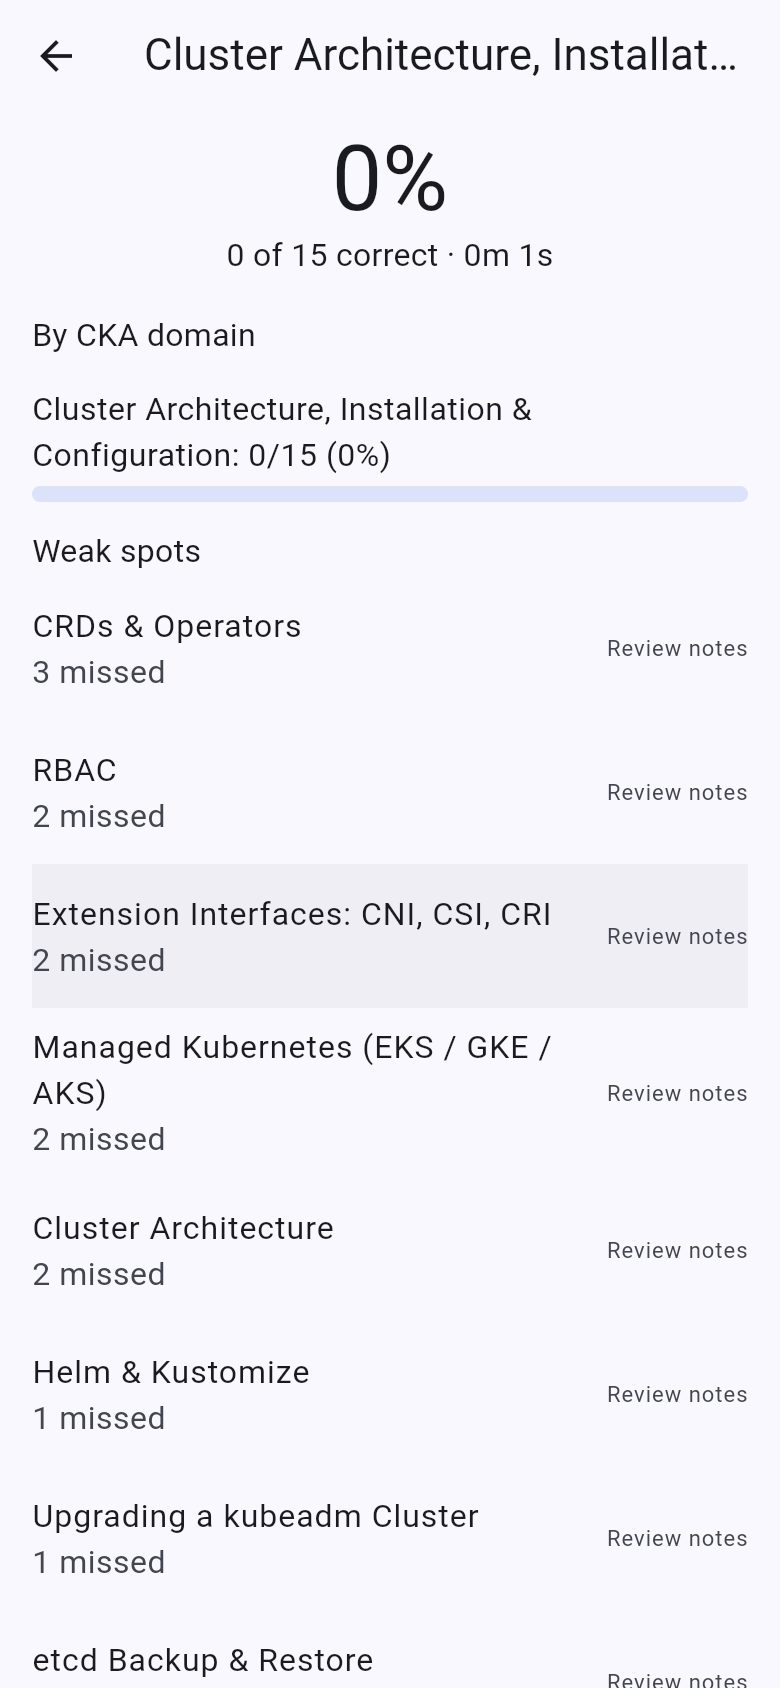
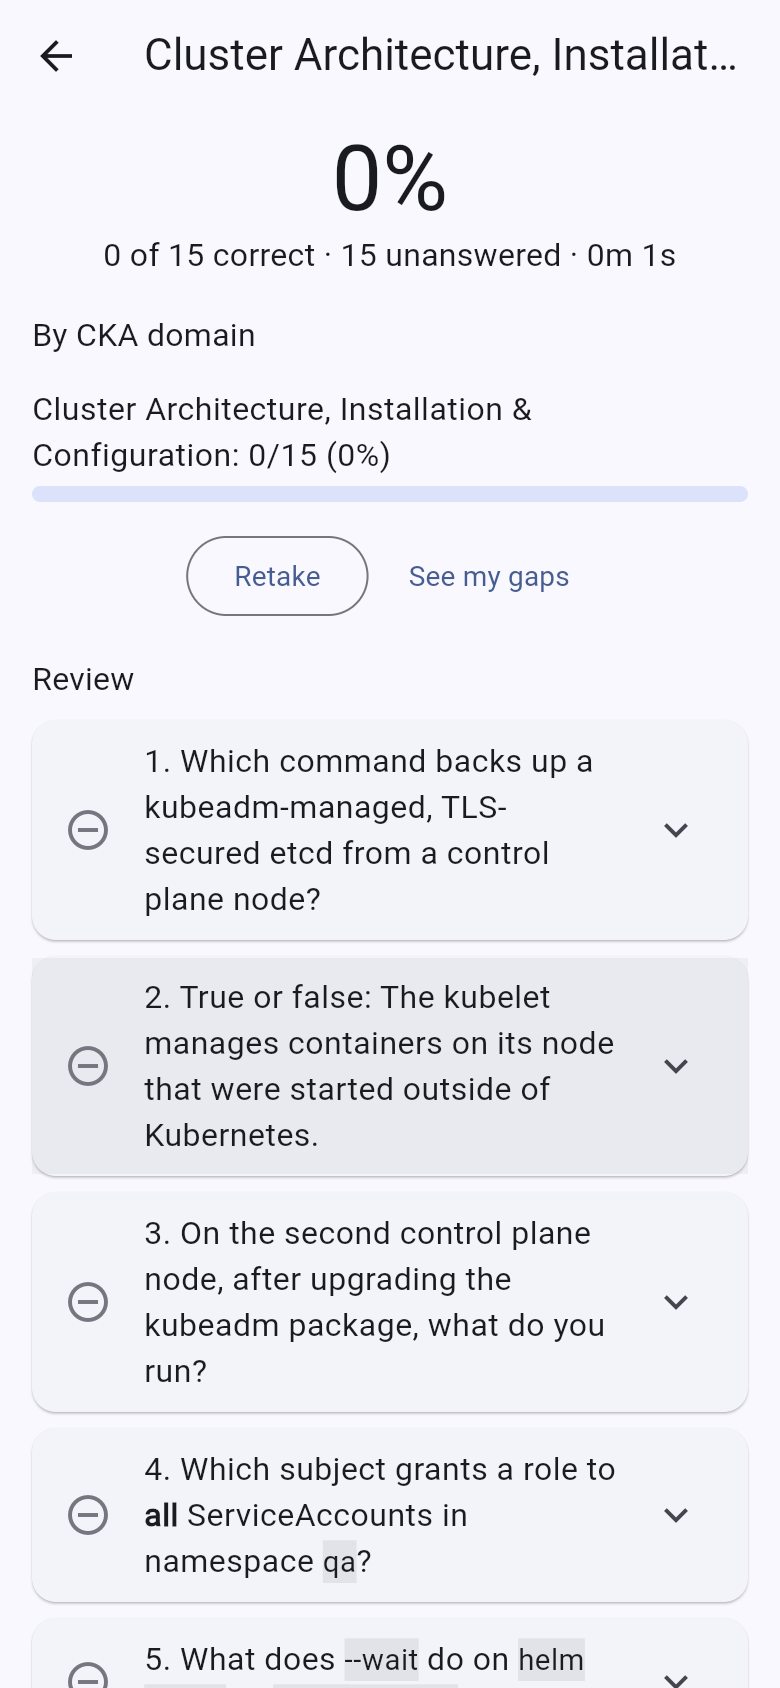
Don't count skipped practice questions as gaps; clearer labels
- Practice test: unanswered questions still score as wrong, but are no
  longer recorded as wrong answers, so finishing early doesn't inflate
  gaps or the missed-questions pool. Results show the unanswered count,
  weak spots count only wrong answers, review marks skipped items.
- Progress: domain weight reads "30% of CKA" instead of a bare
  percentage that looked like progress.
- Flashcards: keyboard hints (Space, 1, 2) only on wide screens.

Claude-Session: https://claude.ai/code/session_0162YmyZA1n4PFA3AmPFRJNc

diff --git a/lib/screens/practice_result_screen.dart b/lib/screens/practice_result_screen.dart
@@ -30,10 +30,12 @@ class PracticeResultScreen extends StatelessWidget {
     final minutes = result.duration.inMinutes;
     final seconds = result.duration.inSeconds % 60;
 
-    // Topics with at least one miss, worst first.
+    // Topics with at least one wrong answer, worst first. Skipped questions
+    // aren't evidence of a weak spot.
+    final unanswered = attempt.unansweredCount;
     final missesByTopic = <String, int>{};
     for (final p in attempt.questions) {
-      if (!attempt.correct(p)) {
+      if (attempt.isAnswered(p.question.id) && !attempt.correct(p)) {
         missesByTopic[p.question.topicId] =
             (missesByTopic[p.question.topicId] ?? 0) + 1;
       }
@@ -56,6 +58,7 @@ class PracticeResultScreen extends StatelessWidget {
           ),
           Text(
             '${attempt.correctCount} of ${attempt.questions.length} correct · '
+            '${unanswered > 0 ? '$unanswered unanswered · ' : ''}'
             '${minutes}m ${seconds}s',
             style: textTheme.titleMedium,
             textAlign: TextAlign.center,
@@ -102,7 +105,7 @@ class PracticeResultScreen extends StatelessWidget {
               ListTile(
                 contentPadding: EdgeInsets.zero,
                 title: Text(content.topic(e.key)?.title ?? e.key),
-                subtitle: Text('${e.value} missed'),
+                subtitle: Text('${e.value} wrong'),
                 trailing: const Text('Review notes'),
                 onTap: () => context.go('/topic/${e.key}/notes'),
               ),
@@ -113,7 +116,7 @@ class PracticeResultScreen extends StatelessWidget {
             runSpacing: 8,
             alignment: WrapAlignment.center,
             children: [
-              if (attempt.missedIds.isNotEmpty)
+              if (weak.isNotEmpty)
                 FilledButton.icon(
                   key: const ValueKey('review-missed-after-test'),
                   onPressed: () => context.go('/progress/review?kind=missed'),

diff --git a/lib/screens/flashcards_screen.dart b/lib/screens/flashcards_screen.dart
@@ -194,6 +194,7 @@ class _CardView extends StatelessWidget {
     final card = session.current;
     final scheme = Theme.of(context).colorScheme;
     final textTheme = Theme.of(context).textTheme;
+    final keys = MediaQuery.sizeOf(context).width >= 600;
     return Column(
       crossAxisAlignment: CrossAxisAlignment.stretch,
       children: [
@@ -252,11 +253,12 @@ class _CardView extends StatelessWidget {
           ),
         ),
         const SizedBox(height: 12),
+        // Keyboard hints only where a keyboard is likely (as in quizzes).
         if (!flipped)
           FilledButton(
             key: const ValueKey('flip'),
             onPressed: onFlip,
-            child: const Text('Show answer (Space)'),
+            child: Text(keys ? 'Show answer (Space)' : 'Show answer'),
           )
         else
           Row(
@@ -265,7 +267,7 @@ class _CardView extends StatelessWidget {
                 child: OutlinedButton(
                   key: const ValueKey('again'),
                   onPressed: () => onAnswer(false),
-                  child: const Text('Again (1)'),
+                  child: Text(keys ? 'Again (1)' : 'Again'),
                 ),
               ),
               const SizedBox(width: 12),
@@ -273,7 +275,7 @@ class _CardView extends StatelessWidget {
                 child: FilledButton(
                   key: const ValueKey('got-it'),
                   onPressed: () => onAnswer(true),
-                  child: const Text('Got it (2)'),
+                  child: Text(keys ? 'Got it (2)' : 'Got it'),
                 ),
               ),
             ],

diff --git a/lib/widgets/question_view.dart b/lib/widgets/question_view.dart
@@ -202,14 +202,27 @@ class AttemptReview extends StatelessWidget {
             builder: (context) {
               final p = attempt.questions[i];
               final ok = attempt.correct(p);
+              final skipped = !attempt.isAnswered(p.question.id);
               return Card(
                 margin: const EdgeInsets.only(bottom: 8),
                 child: ExpansionTile(
                   key: PageStorageKey('review-${p.question.id}'),
                   leading: Icon(
-                    ok ? Icons.check_circle : Icons.cancel,
-                    color: ok ? scheme.correct : scheme.wrong,
-                    semanticLabel: ok ? 'Correct' : 'Incorrect',
+                    skipped
+                        ? Icons.remove_circle_outline
+                        : ok
+                        ? Icons.check_circle
+                        : Icons.cancel,
+                    color: skipped
+                        ? scheme.outline
+                        : ok
+                        ? scheme.correct
+                        : scheme.wrong,
+                    semanticLabel: skipped
+                        ? 'Not answered'
+                        : ok
+                        ? 'Correct'
+                        : 'Incorrect',
                   ),
                   title: InlineText(
                     '${i + 1}. ${p.question.stem}',

diff --git a/test/search_insights_test.dart b/test/search_insights_test.dart
@@ -60,7 +60,10 @@ void main() {
   test('competency gaps: answered-wrong competency ranks first', () async {
     final p = await fresh();
     final q = content.allQuestions.firstWhere((q) => q.competencyId != null);
-    p.recordAnswers(QuizAttempt([PresentedQuestion(q, q.options)]));
+    p.recordAnswers(
+      QuizAttempt([PresentedQuestion(q, q.options)])
+        ..answer(q.id, {q.options.firstWhere((o) => !o.correct).id}),
+    );
     final gaps = competencyGaps(content, p);
     expect(gaps.first.competency.id, q.competencyId);
     expect(gaps.first.accuracy, 0);
@@ -70,6 +73,14 @@ void main() {
       reviewPool(content, p, kind: 'competency', id: q.competencyId),
       contains(q),
     );
+  });
+
+  test('skipped questions are not recorded as evidence', () async {
+    final p = await fresh();
+    final q = content.allQuestions.first;
+    p.recordAnswers(QuizAttempt([PresentedQuestion(q, q.options)]));
+    expect(p.answerStats(q.id), isNull);
+    expect(missedQuestions(content, p), isEmpty);
   });
 
   test('domain readiness covers every domain with topics', () async {

diff --git a/test/widget/loop_test.dart b/test/widget/loop_test.dart
@@ -1,6 +1,7 @@
 // Done-criteria §11.1/§11.4: one full study → flashcards → quiz loop at a
 // 390×844 phone viewport, with progress persisted.
 import 'package:flutter_test/flutter_test.dart';
+import 'package:k8_study/progress/insights.dart';
 import 'package:k8_study/progress/progress_store.dart';
 import 'package:k8_study/widgets/question_view.dart';
 import 'package:material_ui/material_ui.dart';
@@ -159,6 +160,20 @@ void main() {
     expect(
       h.progress.practiceHistory.single.perDomain['cluster-arch']!.total,
       test.questionCount,
+    );
+    // Skipped questions score as wrong but aren't recorded as evidence.
+    expect(
+      find.textContaining('${test.questionCount - 1} unanswered'),
+      findsOneWidget,
+    );
+    expect(
+      find.byKey(const ValueKey('review-missed-after-test')),
+      findsNothing,
+    );
+    expect(missedQuestions(h.content, h.progress), isEmpty);
+    expect(
+      h.progress.answerStats(view.presented.question.id)?.lastCorrect,
+      isTrue,
     );
   });
 

diff --git a/test/widget/progress_ux_test.dart b/test/widget/progress_ux_test.dart
@@ -59,7 +59,10 @@ void main() {
     final attempt = QuizAttempt([
       for (final q in questions) PresentedQuestion(q, q.options),
     ]);
-    h.progress.recordAnswers(attempt); // nothing answered = all wrong
+    for (final q in questions) {
+      attempt.answer(q.id, {q.options.firstWhere((o) => !o.correct).id});
+    }
+    h.progress.recordAnswers(attempt);
     await tester.pumpAndSettle();
 
     final tile = find.byKey(ValueKey('gap-${target.competency.id}'));
@@ -84,7 +87,10 @@ void main() {
     await setPhoneViewport(tester);
     final h = await pumpApp(tester);
     final q = h.content.topics.first.questions.first;
-    h.progress.recordAnswers(QuizAttempt([PresentedQuestion(q, q.options)]));
+    h.progress.recordAnswers(
+      QuizAttempt([PresentedQuestion(q, q.options)])
+        ..answer(q.id, {q.options.firstWhere((o) => !o.correct).id}),
+    );
     await tester.pumpAndSettle();
     expect(find.byKey(const ValueKey('chip-missed')), findsOneWidget);
     await tapKey(tester, 'chip-missed');

diff --git a/lib/screens/practice_run_screen.dart b/lib/screens/practice_run_screen.dart
@@ -125,9 +125,7 @@ class _PracticeRunScreenState extends State<PracticeRunScreen> {
   }
 
   Future<void> _confirmFinish() async {
-    final unanswered = _attempt!.questions
-        .where((p) => !_attempt!.isAnswered(p.question.id))
-        .length;
+    final unanswered = _attempt!.unansweredCount;
     if (unanswered > 0) {
       final ok = await showDialog<bool>(
         context: context,
@@ -135,7 +133,8 @@ class _PracticeRunScreenState extends State<PracticeRunScreen> {
           title: const Text('Finish the test?'),
           content: Text(
             '$unanswered unanswered '
-            '${unanswered == 1 ? 'question' : 'questions'} will be marked wrong.',
+            '${unanswered == 1 ? 'question scores' : 'questions score'} as wrong and '
+            "won't count towards your gaps.",
           ),
           actions: [
             TextButton(

diff --git a/lib/progress/progress_store.dart b/lib/progress/progress_store.dart
@@ -403,12 +403,15 @@ class ProgressStore extends ChangeNotifier implements AdCapStore {
 
   Map<String, AnswerStats> get answerHistory => Map.unmodifiable(_answers);
 
-  /// Records every question in a finished attempt (unanswered = wrong).
+  /// Records the answered questions of a finished attempt. Skipped ones
+  /// (a practice test finished early) are no evidence either way, so they
+  /// don't count towards accuracy or gaps.
   void recordAnswers(QuizAttempt attempt) {
     _bump('quizzes');
     final now = clock.now();
     for (final p in attempt.questions) {
       final id = p.question.id;
+      if (!attempt.isAnswered(id)) continue;
       final ok = attempt.correct(p);
       final prev = _answers[id];
       _answers[id] = AnswerStats(

diff --git a/lib/screens/progress_screen.dart b/lib/screens/progress_screen.dart
@@ -371,7 +371,7 @@ class _DomainRow extends StatelessWidget {
                   ),
                   if (r.domain.weightPercent != null)
                     Text(
-                      '${r.domain.weightPercent}%',
+                      '${r.domain.weightPercent}% of ${examName ?? 'exam'}',
                       style: textTheme.labelMedium,
                     ),
                 ],

diff --git a/lib/engine/quiz.dart b/lib/engine/quiz.dart
@@ -75,6 +75,9 @@ class QuizAttempt {
   int get percent =>
       questions.isEmpty ? 0 : (correctCount * 100 / questions.length).round();
 
+  int get unansweredCount =>
+      questions.where((p) => !isAnswered(p.question.id)).length;
+
   Set<String> get missedIds => {
     for (final p in questions)
       if (!correct(p)) p.question.id,

diff --git a/test/engine/quiz_test.dart b/test/engine/quiz_test.dart
@@ -96,5 +96,6 @@ void main() {
     expect(attempt.correctCount, 2);
     expect(attempt.percent, 50);
     expect(attempt.missedIds, {'c', 'd'});
+    expect(attempt.unansweredCount, 1);
   });
 }
